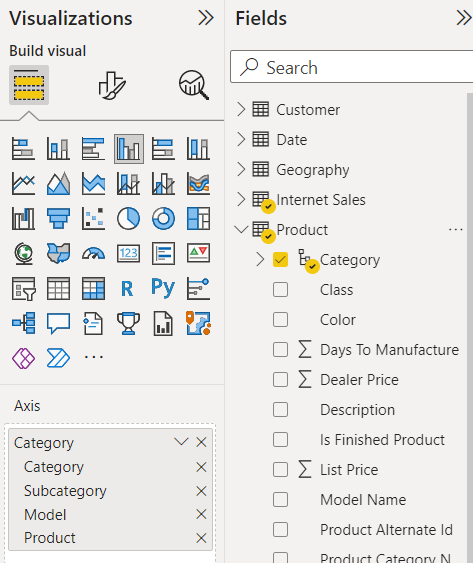
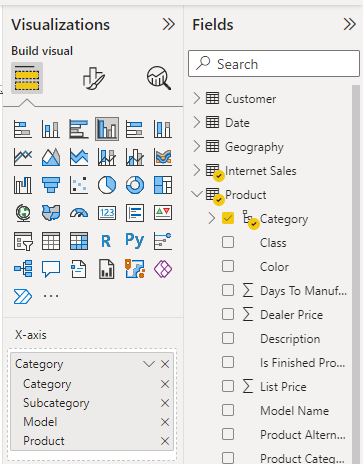
Module 3: update van screenshots

Changed region(s): [[0.0, 0.0, 1.0, 1.0], [0.0, 0.694, 0.4848, 0.9957], [0.9394, 0.0, 1.0, 0.0905]]

diff --git a/03-visuals-and-interaction/03-visuals-and-interaction.md b/03-visuals-and-interaction/03-visuals-and-interaction.md
@@ -75,7 +75,7 @@ In de datamodellen die we vanuit een dataset of Power BI-model afnemen, wordt da
 * Selecteer de *measure* **Internet Total Sales**
 * Selecteer de *hiërarchie* **Category** in de tabel **Product**
 * Bekijk de grafiek-eigenschappen. 
-  * Onder "Axis" staat *Category*
+  * Onder "X-axis" staat *Category*
   * Je ziet hier diverse niveaus (Category, Subcategory, Model, Product), toch is in de grafiek momenteel enkel het hoogste niveau zichtbaar.
 * Maak de grafiek wat breder, zodat je de volledige titel kunt zien. De titel is momenteel "Internet Total Sales by Category": het zichtbare niveau dus.
 
